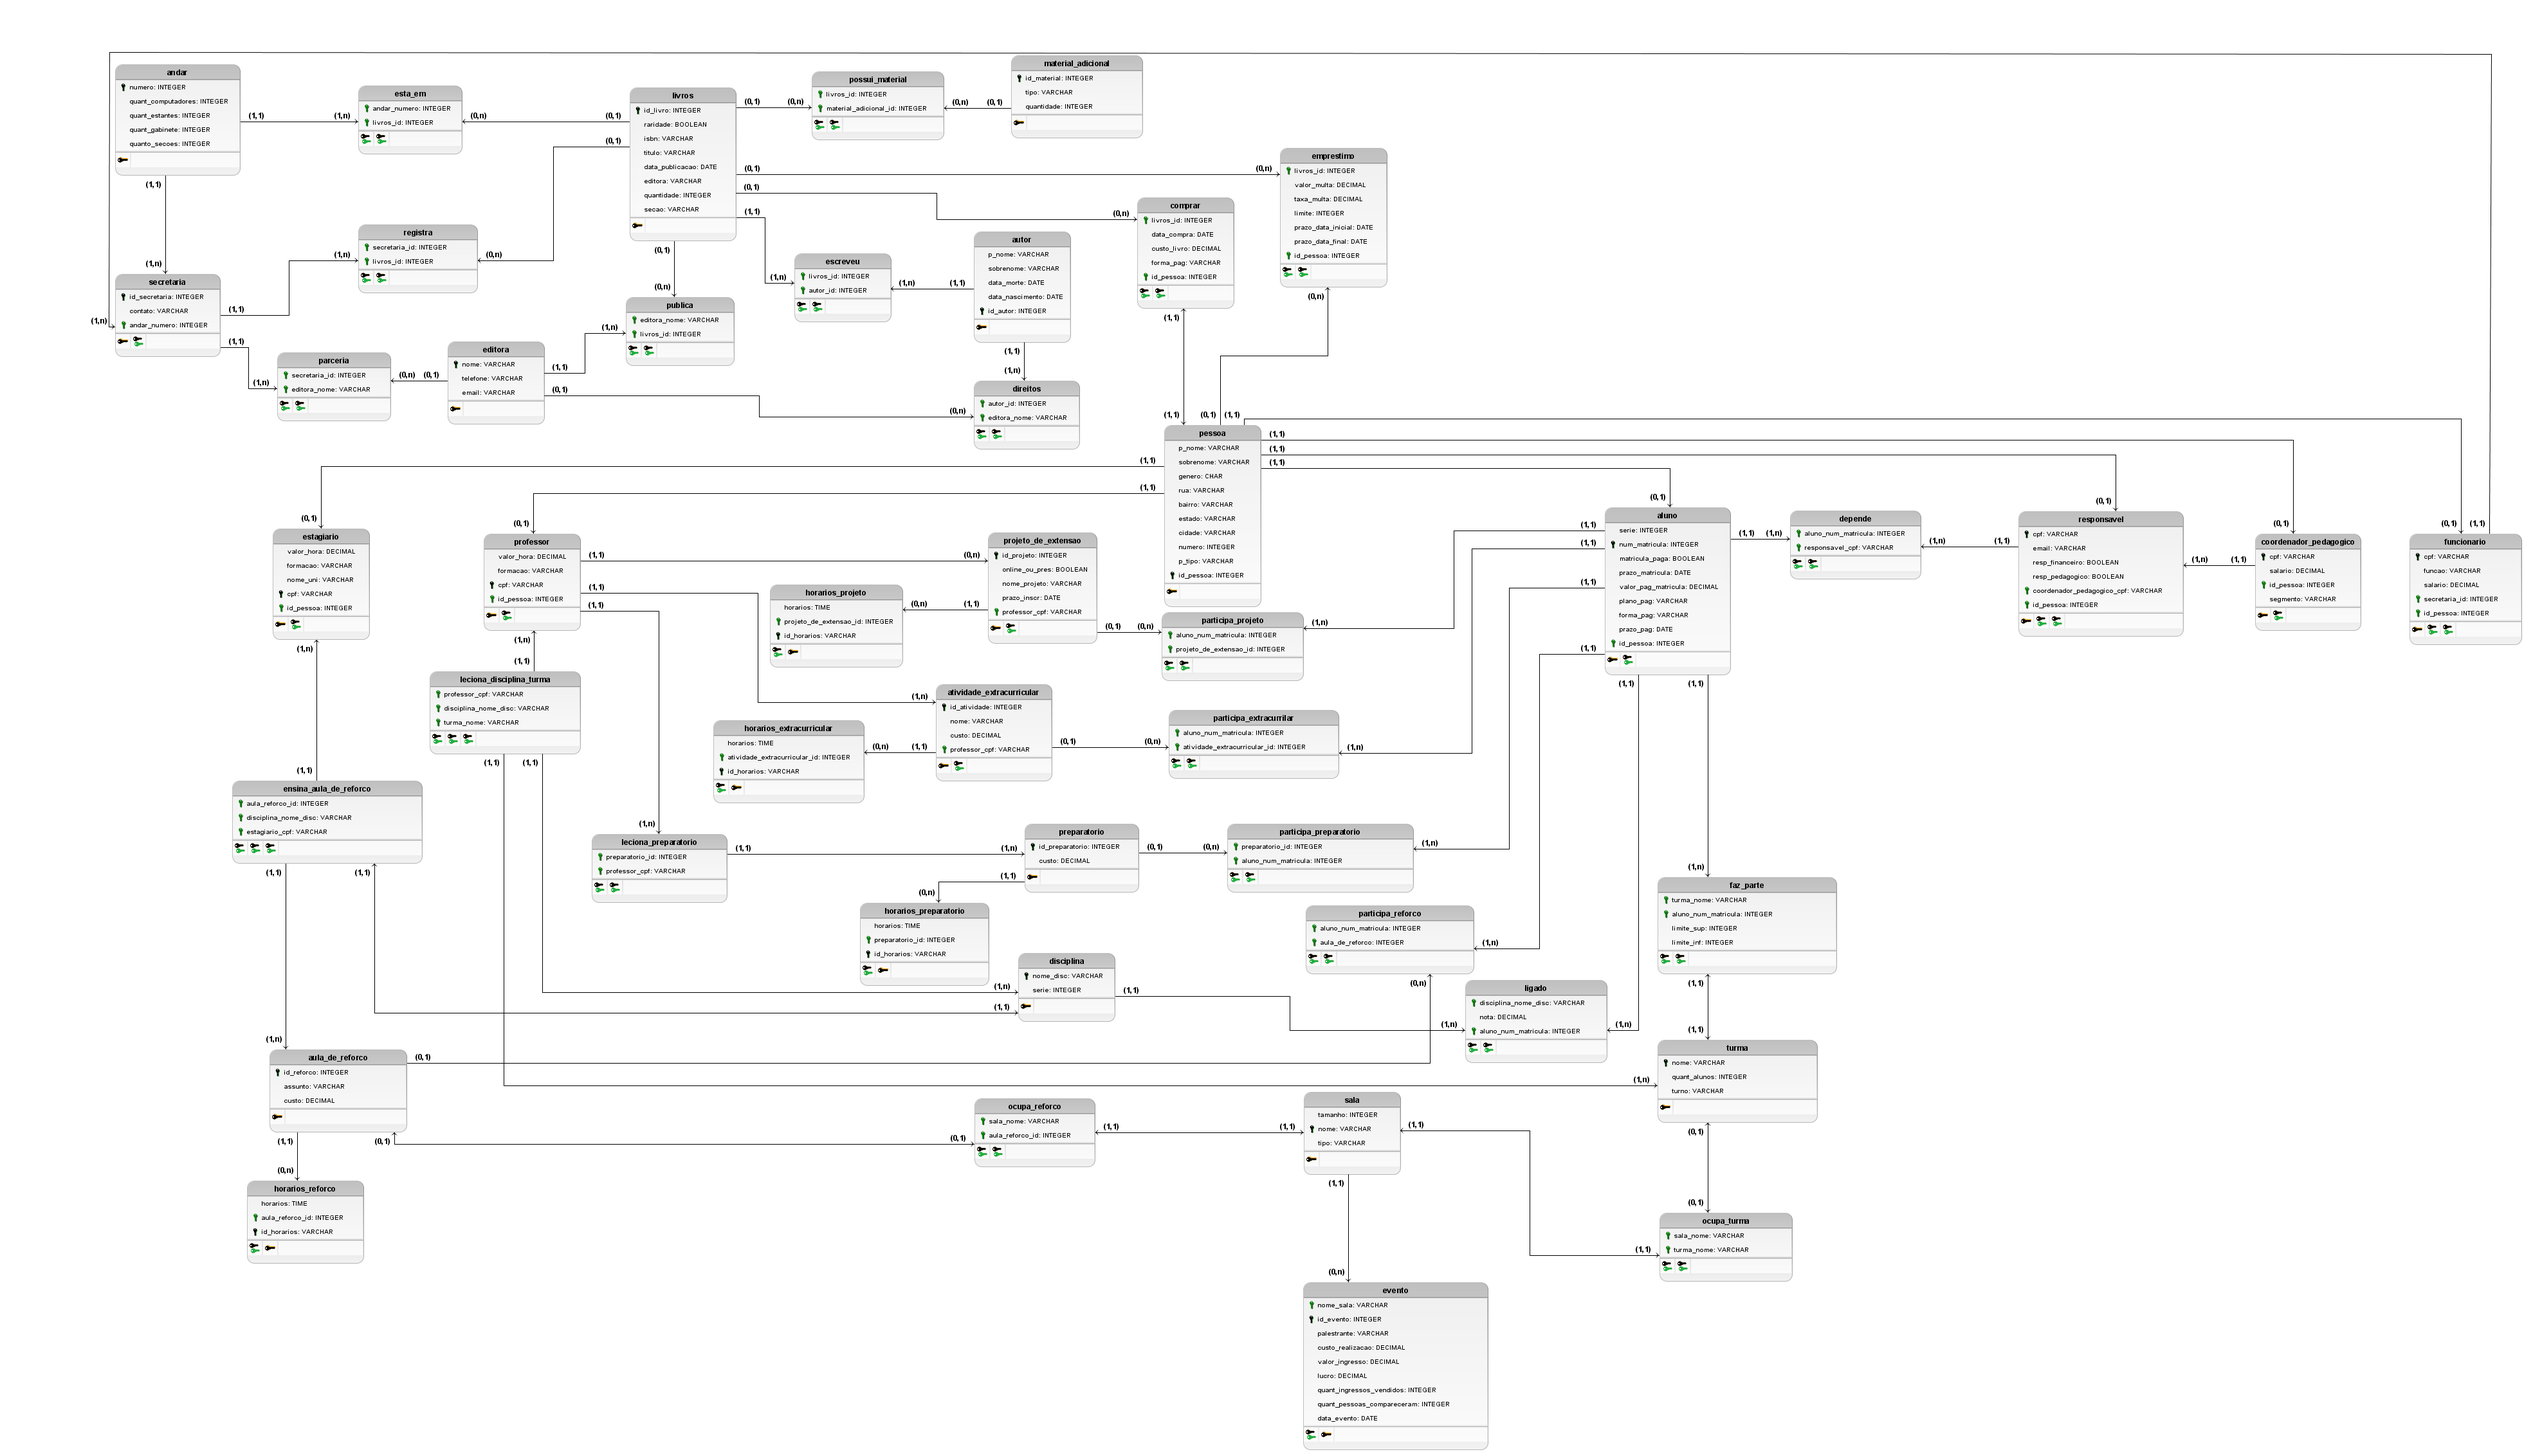
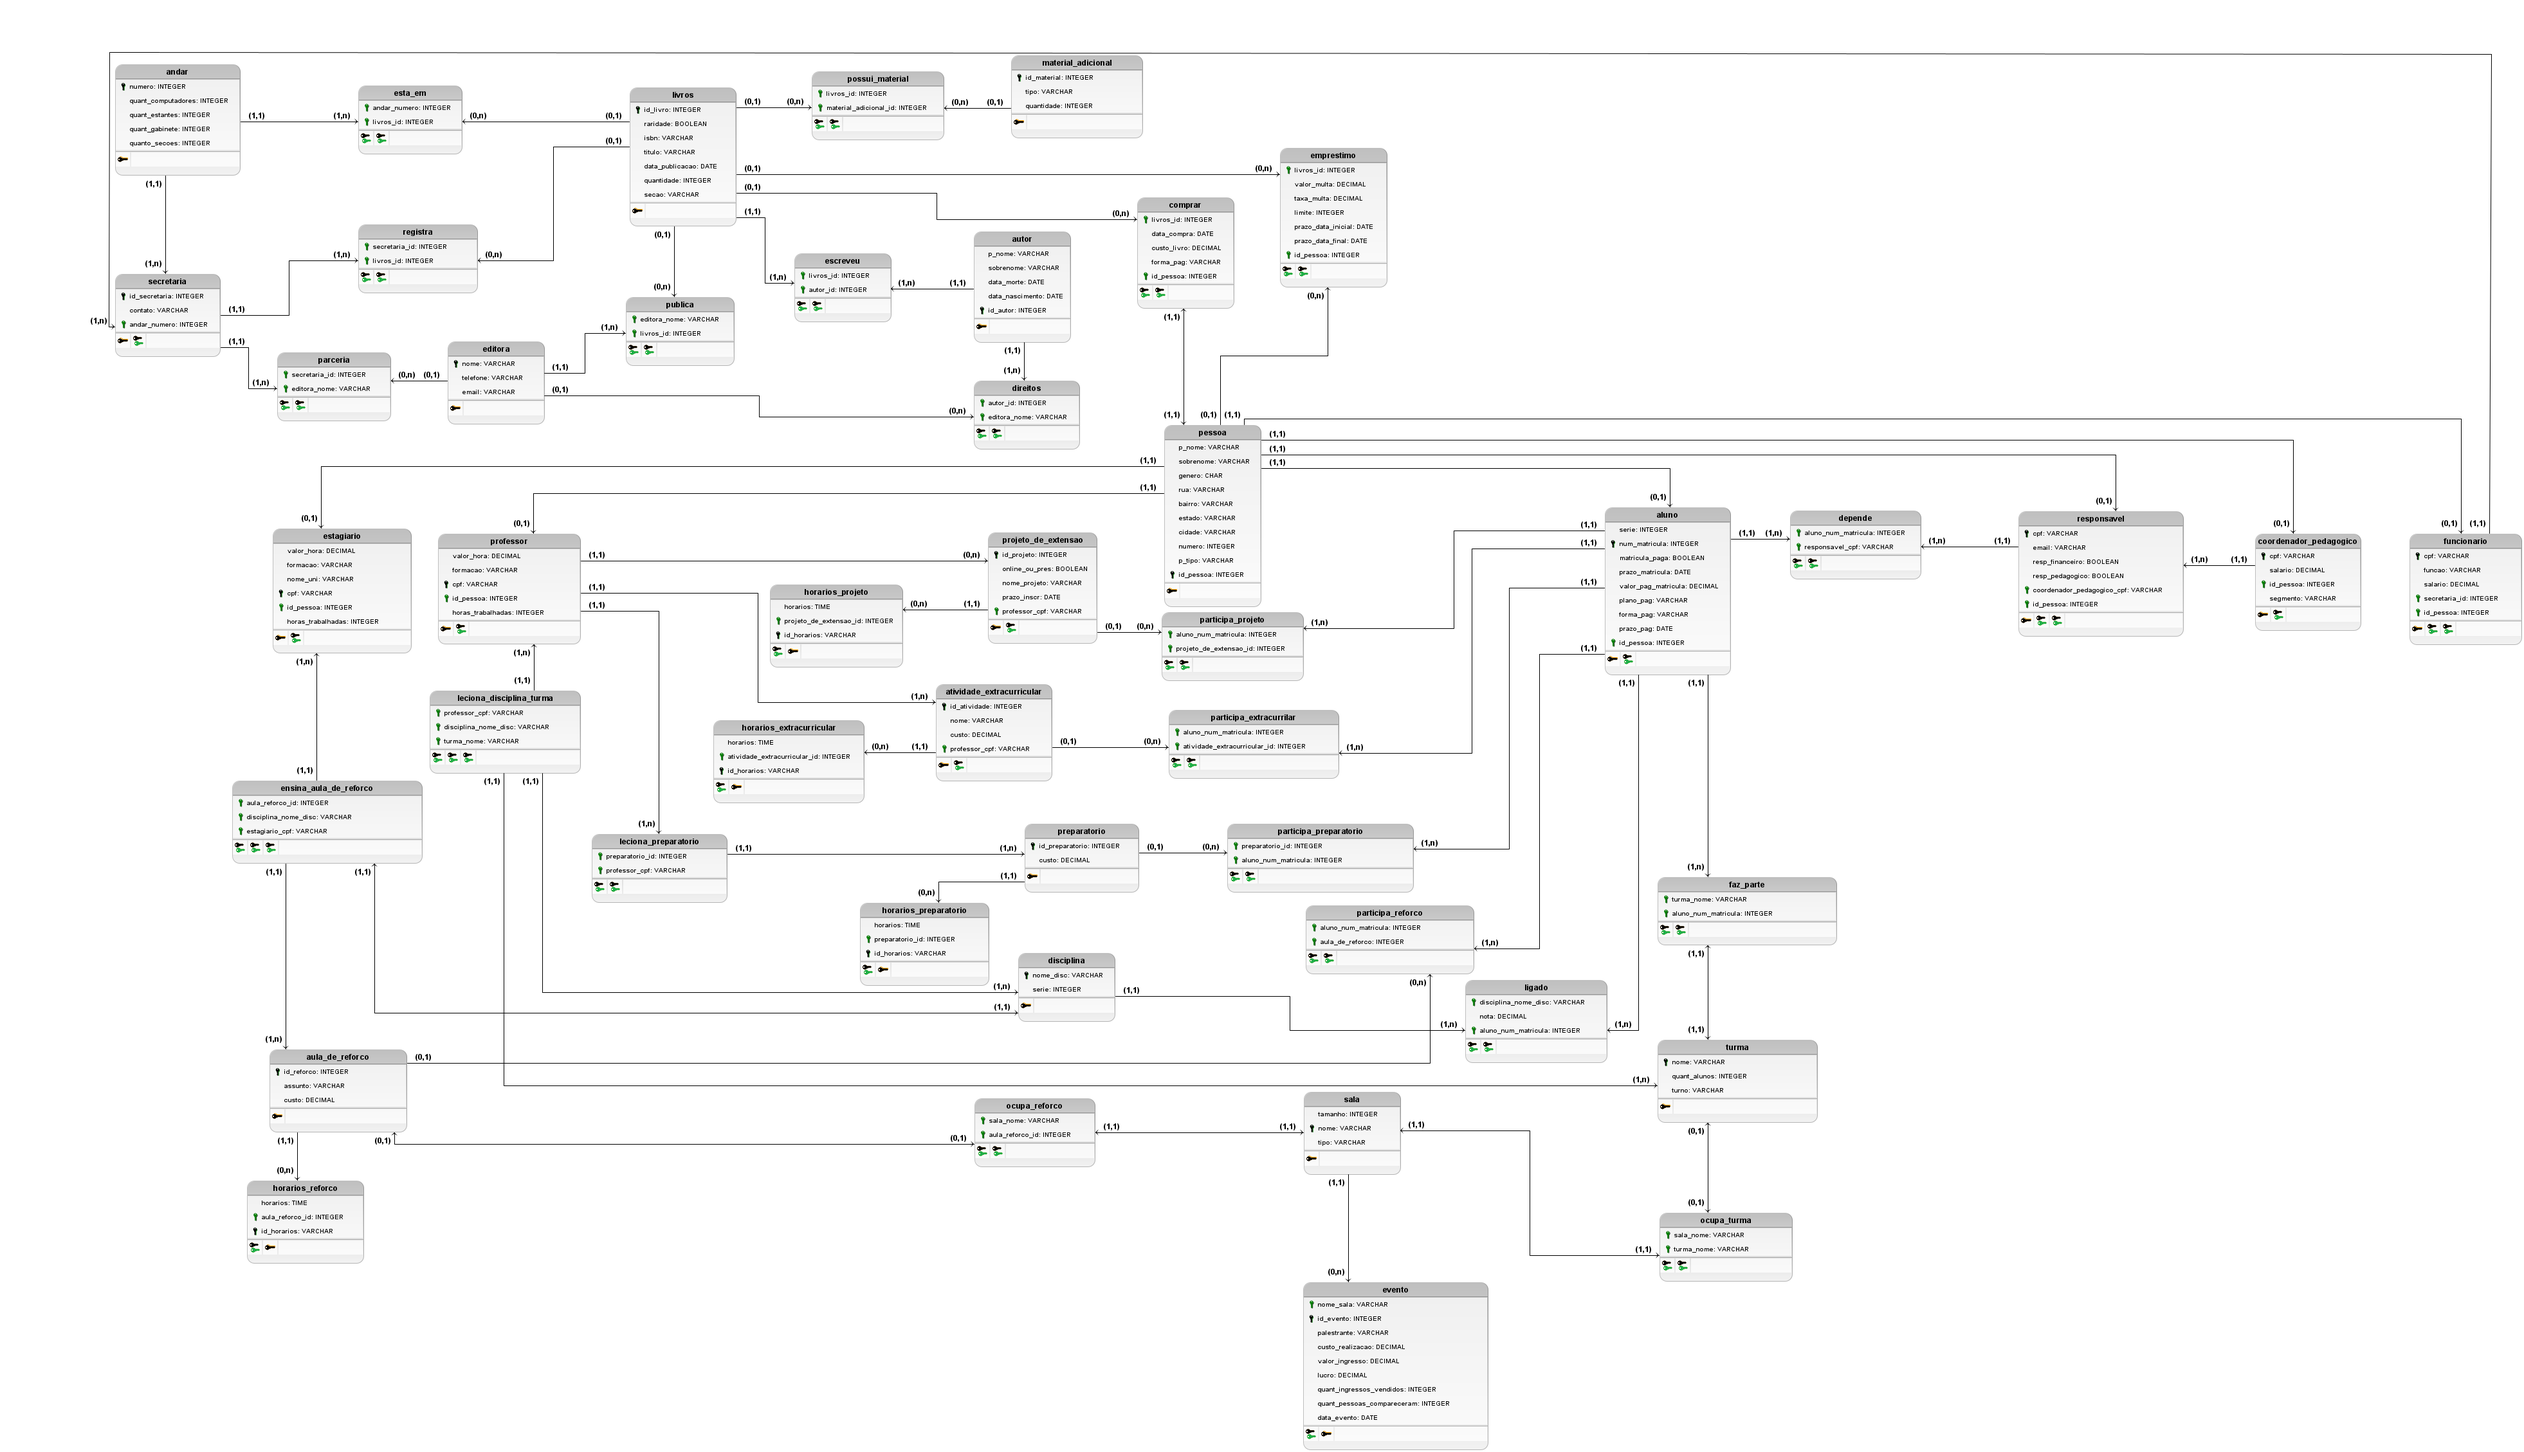
Ajustes no readme e foto do modelo lógico atualizado

diff --git a/README.md b/README.md
@@ -80,7 +80,33 @@ Tentar estimular os alunos a participarem de projetos de extensão. Se o projeto
 DQL (Data Query Language) é uma sublinguagem da linguagem SQL para consulta de dados em tabelas.
 As perguntas baseadas no SGBD possuem códigos DQL que respondem elas. O código DQL está no arquivo DQL.sql.
 
-## Imagens
+# Projeto 4
+
+## Views
+
+Foram adicionadas 4 Views ao banco de dados:
+
+- totalArrecadadoPorPessoa: Permite visualizar o total arrecadado por pessoa pela EducaLivros.
+
+- informacoesLivros: Permite ver todos os dados de um livro, incluindo autor e editora. Além disso, ele permite ver a quantidade de vezes que um livro foi emprestado ou comprado.
+
+- informacoesSalario: Mostra o nome, o sobrenome, o tipo de funcionário (se é um estagiário, professor, funcionário ou um coordenador) e o seu respectivo salário.
+
+- verificarSalas: Mostra todas as salas e se elas estão ocupadas por um evento, uma aula reforço, uma turma ou se estão vazias no momento.
+
+## Normalização
+
+Para garantir que o banco de dados estivesse de acordo com a Terceira Forma Normal (3NF) foram realizadas as seguintes modificações:
+
+- Foi retirado o campo editora da tabela livros, pois já estava presente na tabela editora e poderia causar inconsistências ao banco.
+
+- Foram retirados os campos limite_inf e limite_sup da tabela faz_parte, pois estavam muito repetitivos.
+
+## Modificações no Banco de Dados
+
+- Adição do campo de quantidade de horas trabalhadas nas tabelas professor e estagiário. Esses campos foram adicionados para permitir o cálculo do salário dos professores e dos estagiários.
+
+# Imagens
 
 ![](/Imagens/Imagem_Lógico.png)
 
